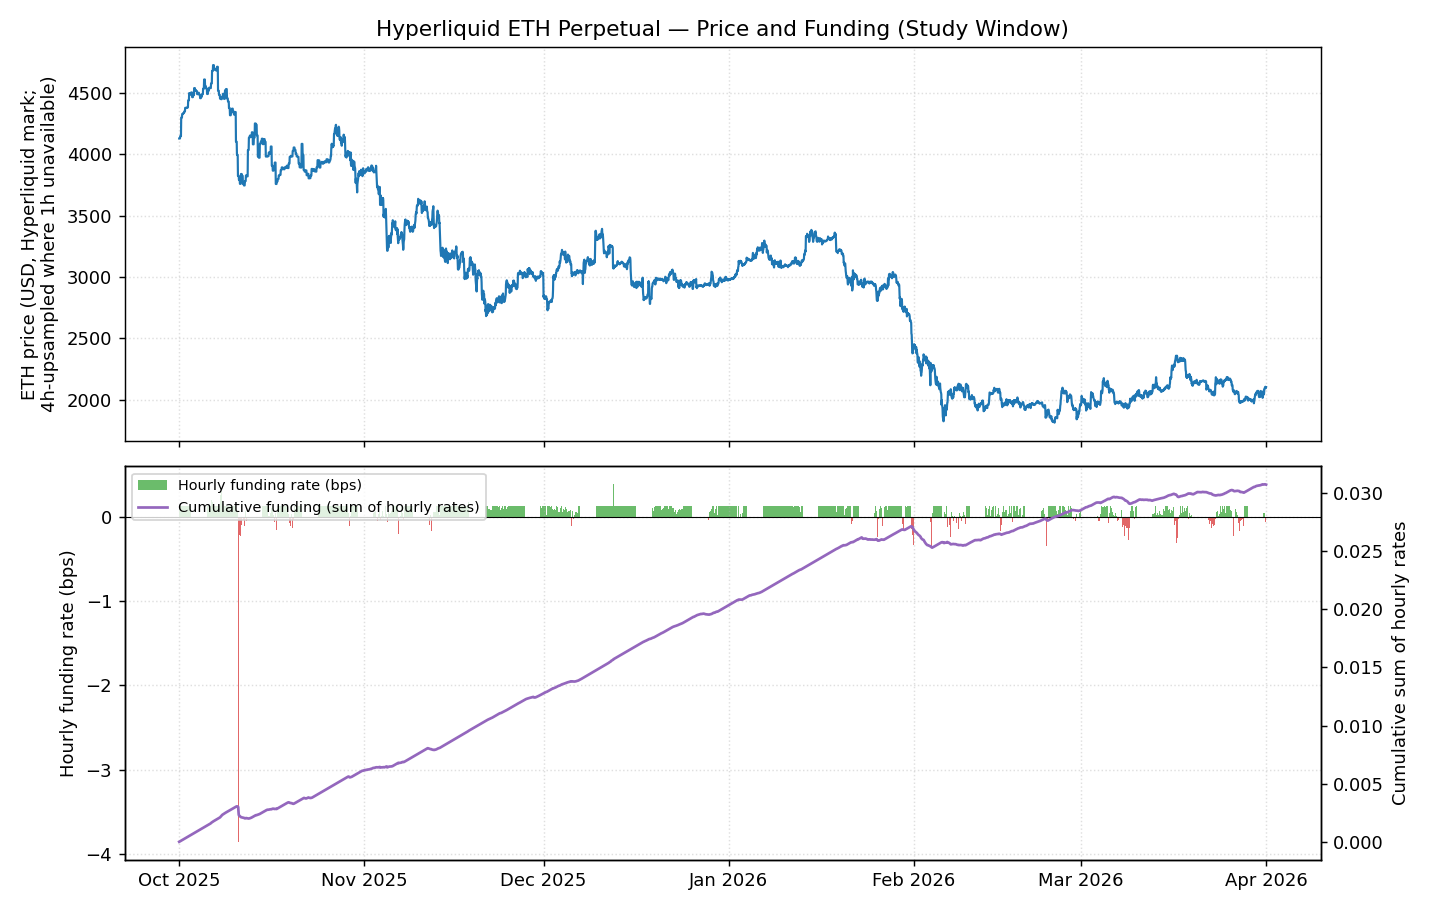
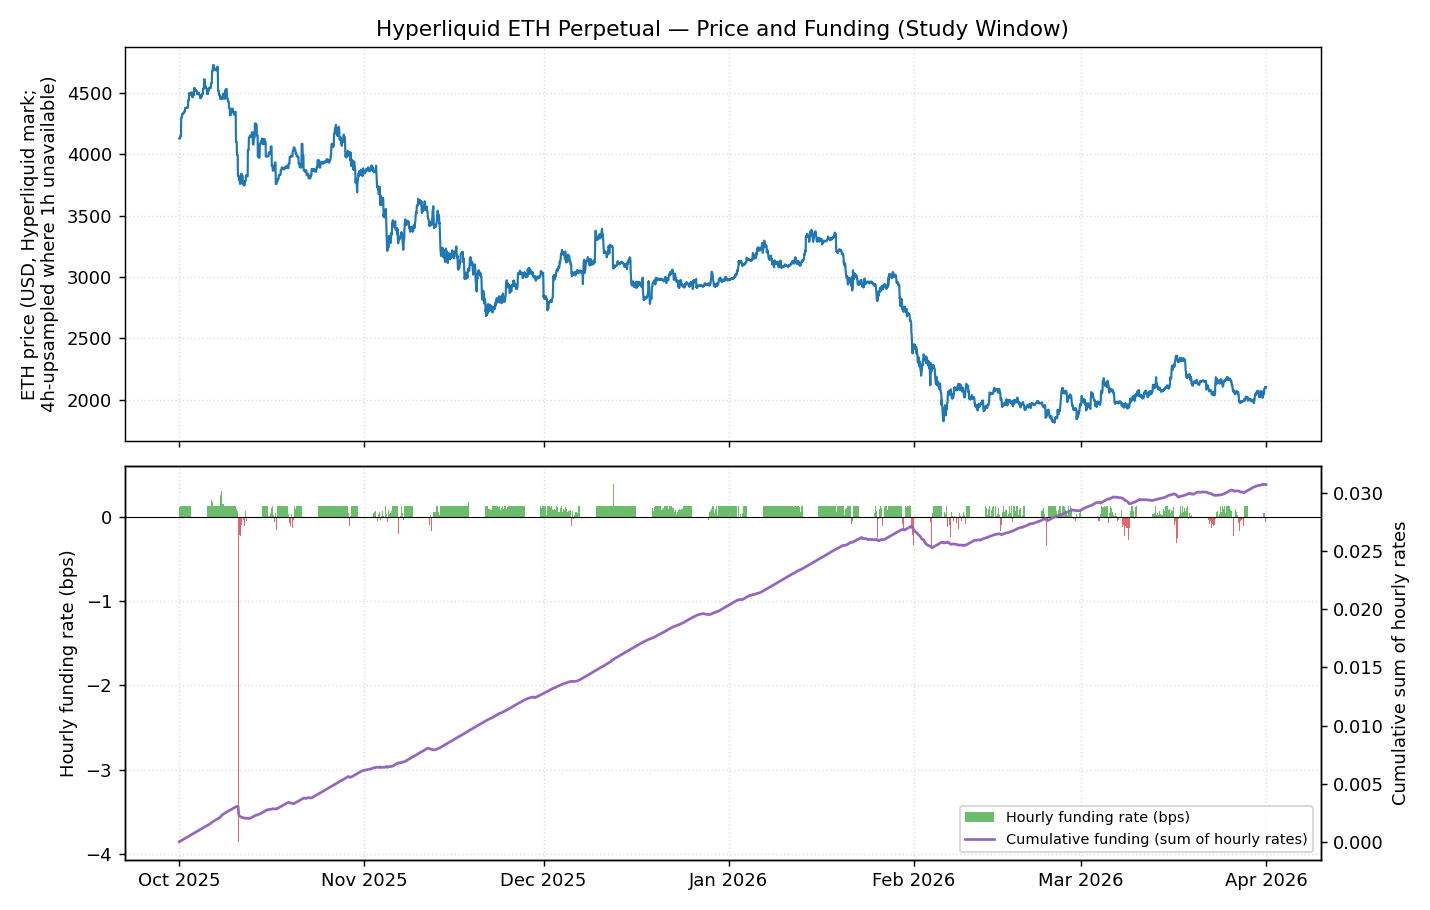
changed position of the legend

Changed region(s): [[0.6769, 0.8923, 0.9231, 0.9538], [0.0923, 0.5231, 0.3385, 0.5846]]

diff --git a/hyperliquid_fetch.py b/hyperliquid_fetch.py
@@ -282,7 +282,7 @@ def plot_funding(funding: pd.DataFrame, prices: pd.DataFrame, out_path: str) -> 
     ax1.grid(True, ls=":", alpha=0.4)
     lines1, lab1 = ax1.get_legend_handles_labels()
     lines2, lab2 = ax1b.get_legend_handles_labels()
-    ax1.legend(lines1 + lines2, lab1 + lab2, loc="upper left", fontsize=8)
+    ax1.legend(lines1 + lines2, lab1 + lab2, loc="lower right", fontsize=8)
     for ax in axes:
         ax.xaxis.set_major_locator(mdates.MonthLocator())
         ax.xaxis.set_major_formatter(mdates.DateFormatter("%b %Y"))